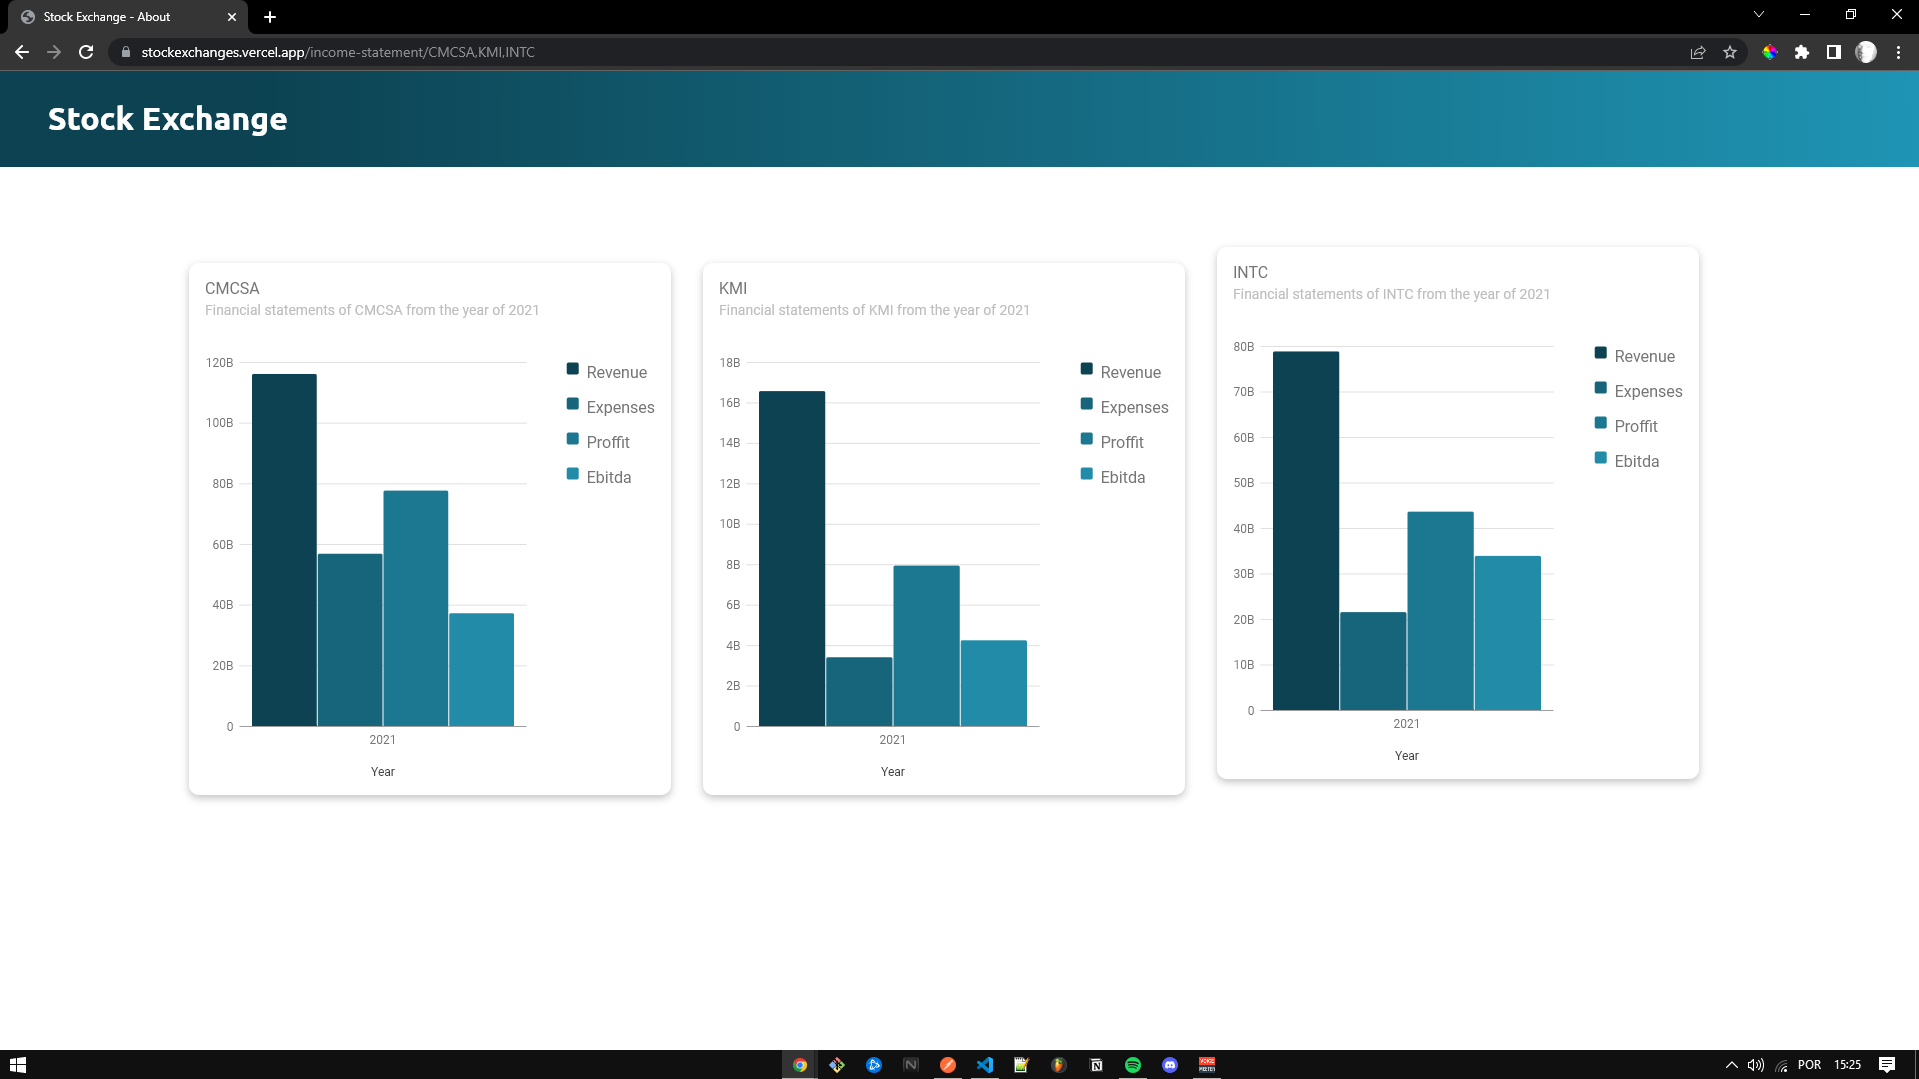
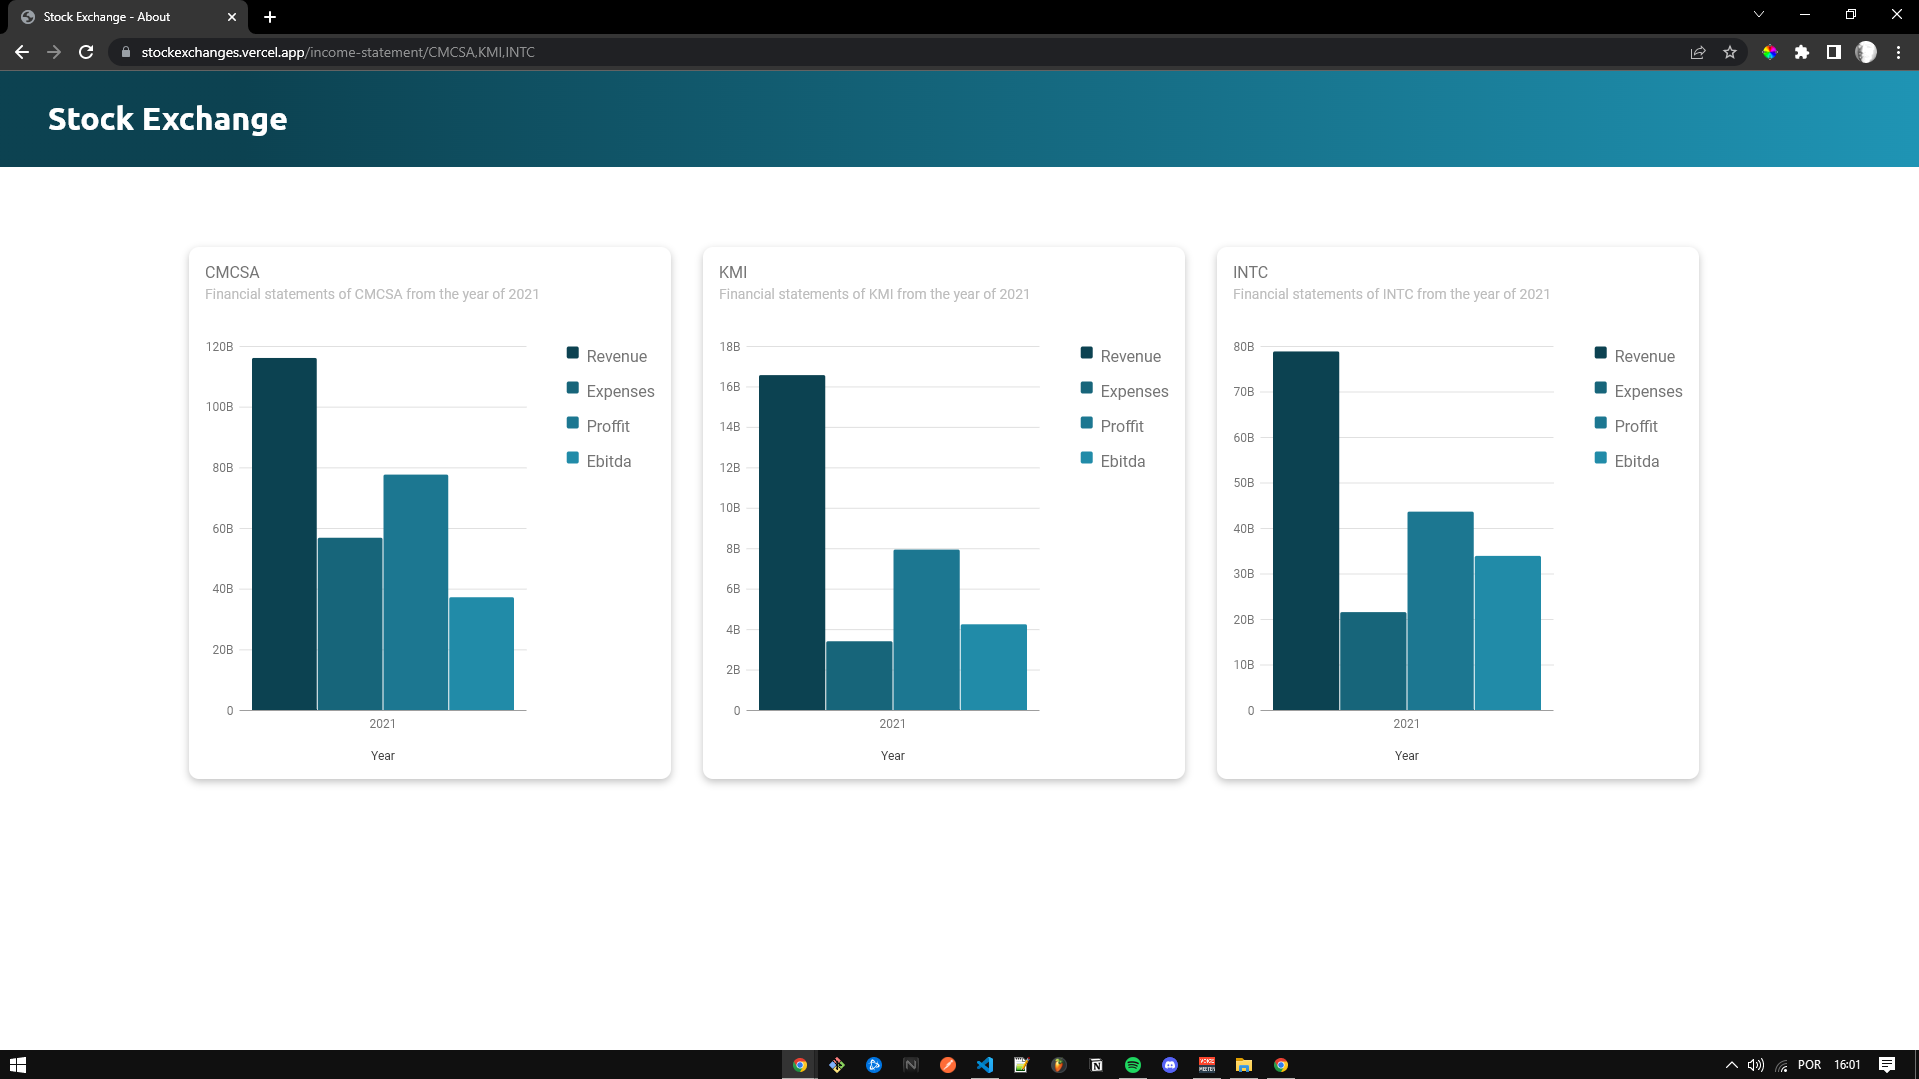
adjustment one about page

diff --git a/src/pages/about/About.scss b/src/pages/about/About.scss
@@ -35,6 +35,10 @@
     margin-top: 5rem;
   }
 
+  .charts:last-child {
+    margin-bottom: 0rem;
+  }
+
   .container-loader {
     font-size: 1.3rem;
   }
